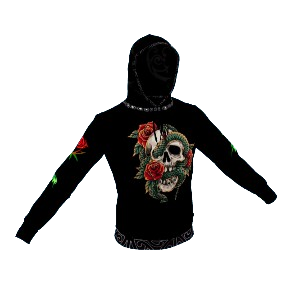
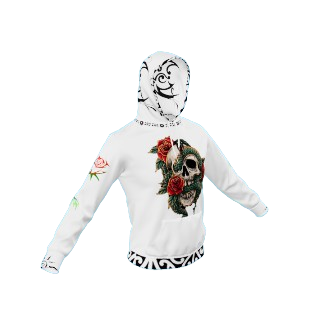
style

Changed region(s): [[0.06, 0.0909, 0.93, 0.8485]]

diff --git a/style.css b/style.css
@@ -9,13 +9,15 @@
     margin: 1rem;
     padding: 0;
     font-family: Google Sans, Noto, Roboto, Helvetica Neue, sans-serif;
-    color: #244376;
+    background: rgb(101,134,123);
+    background: linear-gradient(180deg, rgba(101,134,123,1) 0%, rgba(24,44,39,1) 100%);
     justify-content: space-between;
     align-items: center;
     height: 98vh;
   }
 h2{
   text-align: center;
+  color: #fff;
 }
   #card {
     margin: 3em auto;
@@ -30,26 +32,31 @@ h2{
   model-viewer {
     width: 100%;
     height: 400px;
-    background-color: #70bcd1;
     --poster-color: #ffffff00;
   }
   
   .attribution {
-    width: 70%;
-    border-radius: 5px;
-    background-color: #3498db;
+    width: 276PX;
+    border-radius: 13px;
     display: flex;
     flex-direction: row;
     justify-content: space-between;
     margin: 1em;
+    padding: 0.2rem;
+    background-color: #5a7d77;
   }
-  
+  .line{
+    width: 2px;
+    height: 100%;
+    background-color: #314641;
+
+  }
   .attribution h1 {
     margin: 0 0 0.25em;
   }
   
   .attribution img {
-    height: 2em;
+    height: 5rem;
   }
   
   .attribution .cc {
@@ -65,7 +72,6 @@ h2{
     width: 100%;
     max-width: 800px;
     height: 100%;
-    background-color: #70bcd1;
   }
   
   .model-container {
@@ -77,7 +83,6 @@ h2{
   .arrow-button {
     background-color: transparent;
     color: #fff;
-    padding: 10px 20px;
     font-size: 20px;
     border: none;
     cursor: pointer;
@@ -99,14 +104,12 @@ h2{
   .color-selection-container{
     margin: 0 auto;
     padding: 1rem;
-    background-color: #70bcd1;
     width: 100%;
   }
   .color-selection {
     display: flex;
     justify-content: center;
     align-items: center;
-    background-color: #70bcd1;
     width: 100%;
   }
 
@@ -115,4 +118,5 @@ h2{
     height: 30px;
     border-radius: 50%;
     margin: 5px;
+    cursor: pointer;
   }

diff --git a/index.html b/index.html
@@ -6,6 +6,7 @@
     <meta http-equiv="X-UA-Compatible" content="IE=edge" />
     <meta name="viewport" content="width=device-width, initial-scale=1" />
     <link rel="stylesheet" href="style.css" />
+    <link rel="stylesheet" href="https://cdnjs.cloudflare.com/ajax/libs/font-awesome/5.15.4/css/all.min.css" />
     <script
       src="https://unpkg.com/focus-visible@5.0.2/dist/focus-visible.js"
       defer
@@ -29,7 +30,7 @@
       </div>
     </div>
     <section class="color-selection-container">
-      <h2>colores</h2>
+      <h2>Colores</h2>
       <div class="color-selection">
         <div id="color-item" class="color-option" onclick="changeModelColor()"></div>
       </div>
@@ -39,6 +40,7 @@
         ◄
         <img id="prevImage" src="" alt="Imagen anterior" />
       </button>
+      <div class="line"></div>
       <button class="arrow-button" onclick="nextModel()">
         <img id="nextImage" src="" alt="Siguiente imagen" />
         ►

diff --git a/script.js b/script.js
@@ -7,6 +7,7 @@ const colors = {
     negro:'#000',
     amarillo: '#F7E992',
     rojo: '#FF7751',
+    azul: '#0000F6'
 }
 
 let currentModelIndex = 0;
